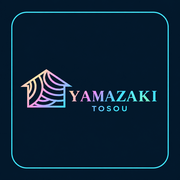
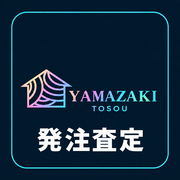
アプリアイコンへ発注査定を追加

Changed region(s): [[0.1944, 0.6944, 0.8056, 0.8611]]

diff --git a/service-worker.js b/service-worker.js
@@ -1,7 +1,7 @@
-const CACHE = 'ytm-order-check-v1.0.1';
+const CACHE = 'ytm-order-check-v1.0.2';
 const CORE = [
   './', './index.html', './styles.css', './app.js', './manifest.webmanifest',
-  './apple-touch-icon.png?v=2', './icon-192.png?v=2', './icon-512.png?v=2'
+  './apple-touch-icon.png?v=3', './icon-192.png?v=3', './icon-512.png?v=3'
 ];
 self.addEventListener('install', event => {
   event.waitUntil(caches.open(CACHE).then(cache => cache.addAll(CORE)));

diff --git a/index.html b/index.html
@@ -11,7 +11,7 @@
 <meta name="apple-mobile-web-app-status-bar-style" content="black-translucent">
 <meta name="apple-mobile-web-app-title" content="発注査定">
 <link rel="manifest" href="./manifest.webmanifest">
-<link rel="apple-touch-icon" href="./apple-touch-icon.png?v=2">
+<link rel="apple-touch-icon" href="./apple-touch-icon.png?v=3">
 <link rel="stylesheet" href="./styles.css">
 <title>山﨑塗装_発注金額査定ツール</title>
 </head>
